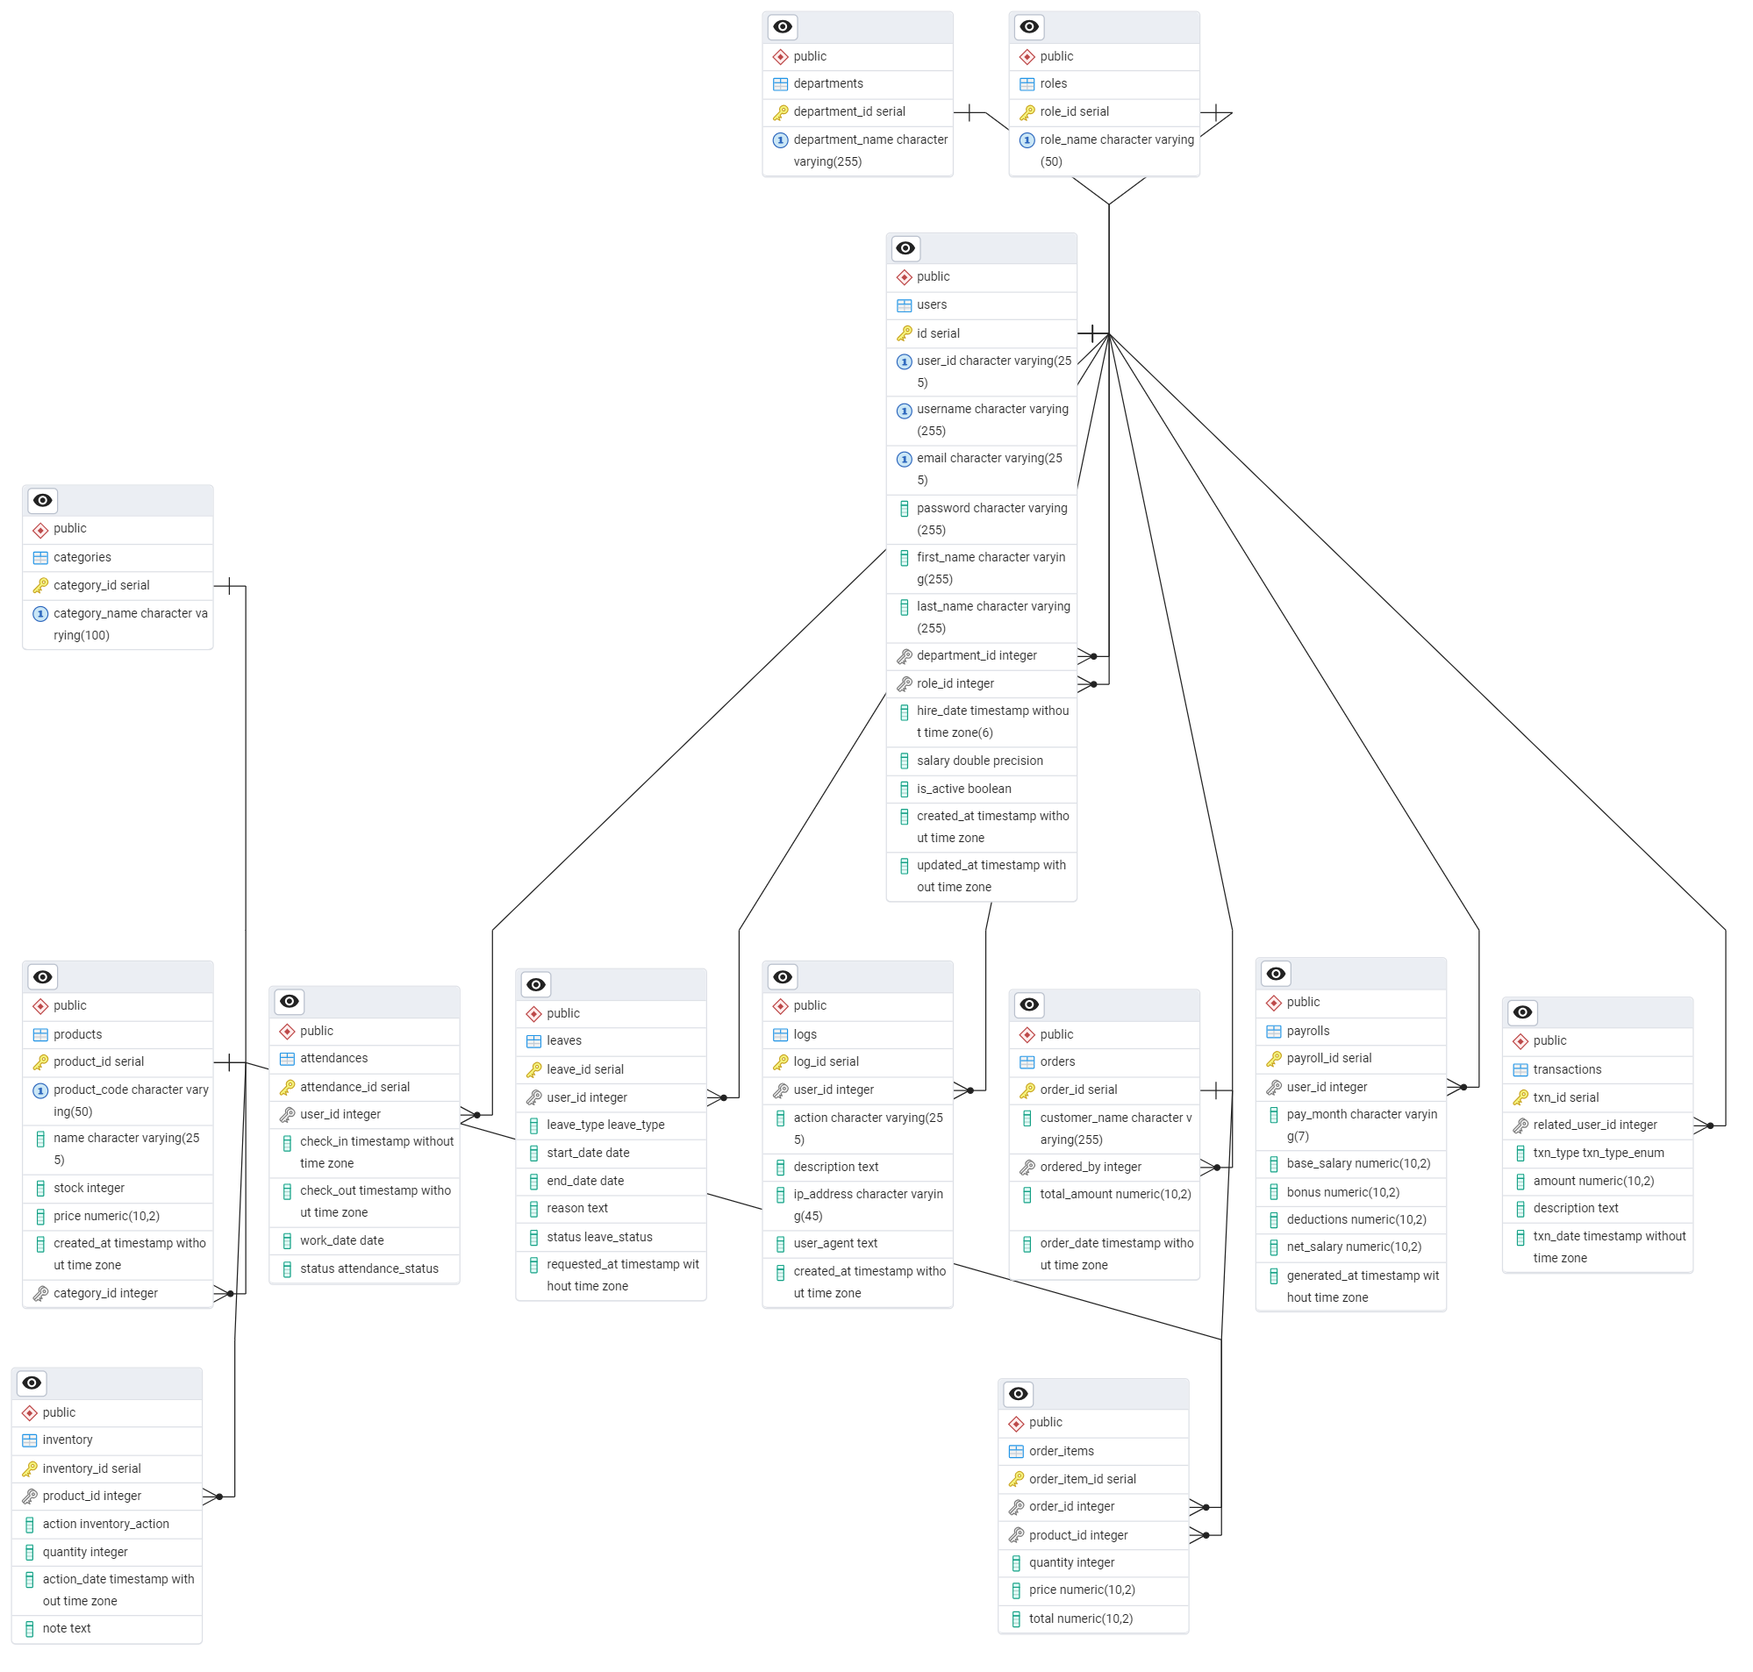
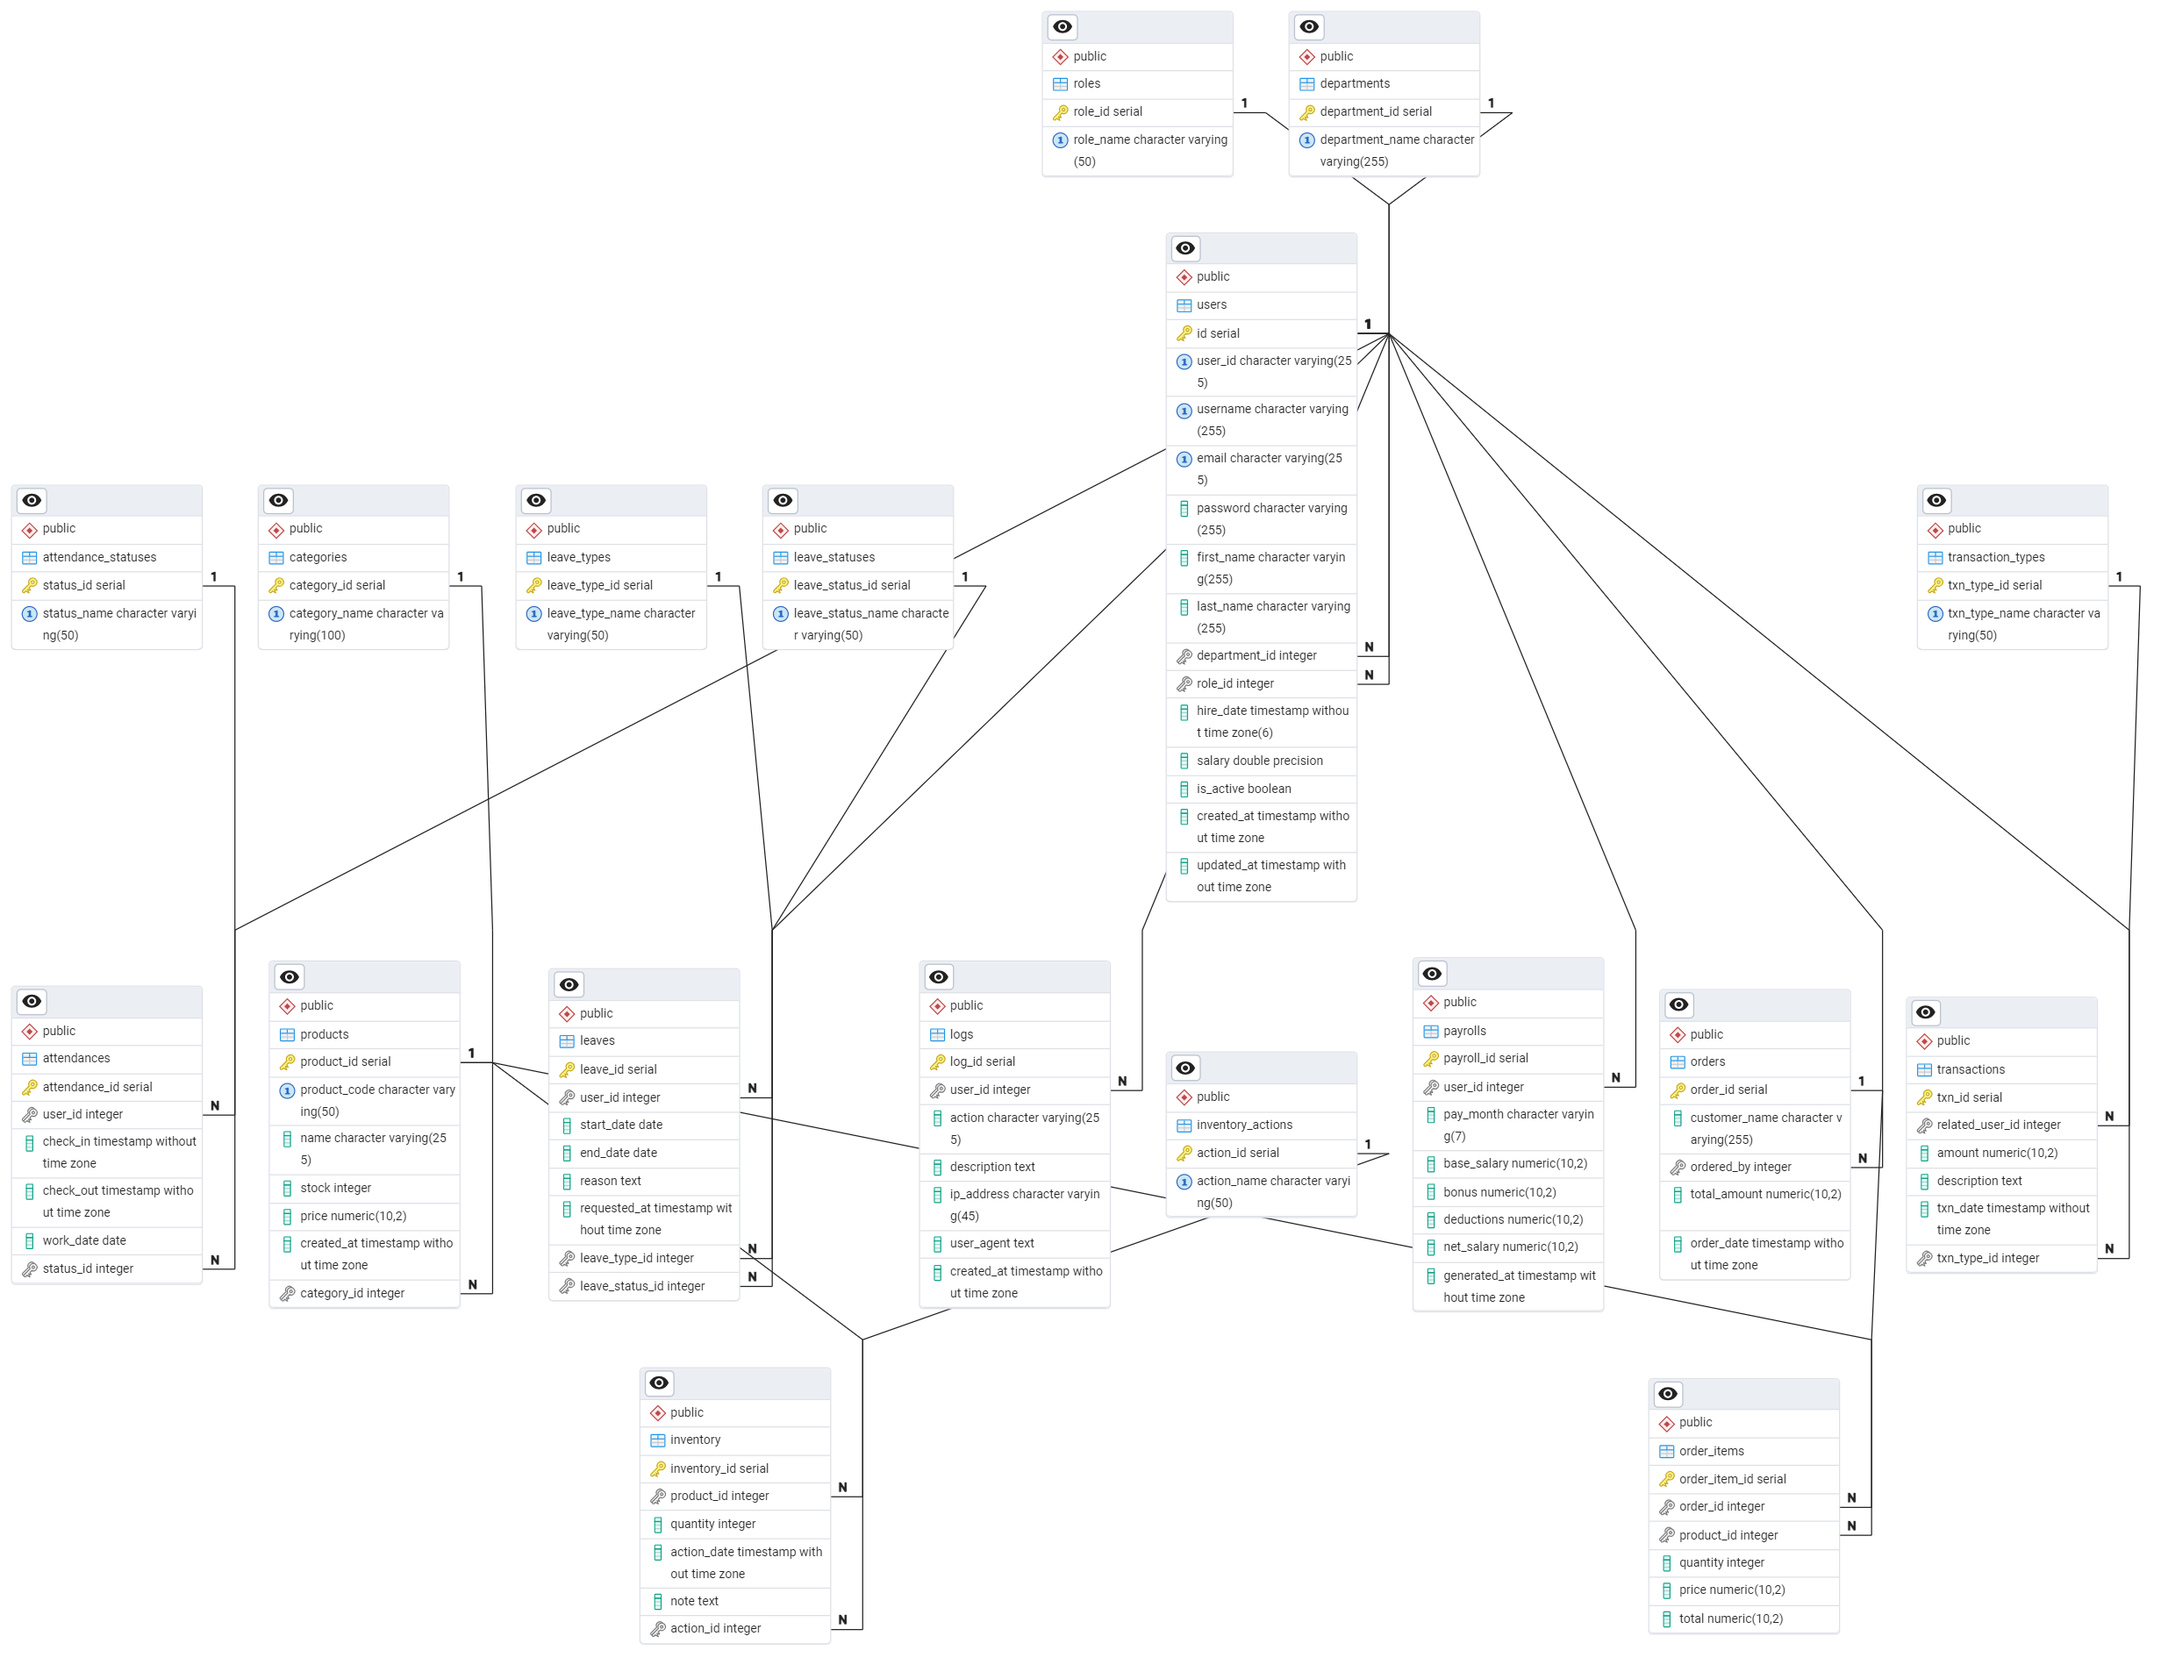
[ADD] Model Attendance [EDIT] Change Folder Name

diff --git a/src/main/java/com/example/erp/Category/model/Category.java b/src/main/java/com/example/erp/Category/model/Category.java
@@ -1,0 +1,22 @@
+package com.example.erp.Category.model;
+
+import jakarta.persistence.Entity;
+import jakarta.persistence.Table;
+
+@Entity
+@Table(name = "categories")
+public class Category {
+
+    private Integer category_id;
+
+    private String category_name;
+
+    public Category(){}
+
+    public Integer getCategoryId(){return category_id;}
+    public void setCategoryID(Integer category_id){this.category_id =category_id;}
+
+    public String getCategoryName(){return category_name;}
+    public void setCategoryName(String category_name){this.category_name =category_name;}
+    
+}

diff --git a/src/main/java/com/example/erp/config/security/SecurityConfig.java b/src/main/java/com/example/erp/config/security/SecurityConfig.java
@@ -1,4 +1,4 @@
-package com.example.erp.config.security;
+package com.example.erp.Config.security;
 
 import org.springframework.context.annotation.Bean;
 import org.springframework.context.annotation.Configuration;
@@ -8,7 +8,7 @@ import static org.springframework.security.config.Customizer.withDefaults;
 
 import org.springframework.security.web.authentication.UsernamePasswordAuthenticationFilter;
 
-import com.example.erp.config.jwt.JwtFilter;
+import com.example.erp.Config.jwt.JwtFilter;
 
 @Configuration
 public class SecurityConfig {

diff --git a/src/main/java/com/example/erp/Products/controller/ProductController.java b/src/main/java/com/example/erp/Products/controller/ProductController.java
@@ -9,10 +9,10 @@ import org.springframework.web.bind.annotation.RequestMapping;
 import org.springframework.web.bind.annotation.RequestParam;
 import org.springframework.web.bind.annotation.RestController;
 
+import com.example.erp.Helper.ApiResponse;
 import com.example.erp.Products.dto.CreateProduct;
 import com.example.erp.Products.model.Product;
 import com.example.erp.Products.services.ProductService;
-import com.example.erp.helper.ApiResponse;
 
 import io.swagger.v3.oas.annotations.parameters.RequestBody;
 

diff --git a/src/main/java/com/example/erp/config/jwt/JwtFilter.java b/src/main/java/com/example/erp/config/jwt/JwtFilter.java
@@ -1,4 +1,4 @@
-package com.example.erp.config.jwt;
+package com.example.erp.Config.jwt;
 
 import io.jsonwebtoken.Claims;
 import jakarta.servlet.FilterChain;
@@ -14,7 +14,7 @@ import org.springframework.security.core.context.SecurityContextHolder;
 import org.springframework.stereotype.Component;
 import org.springframework.web.filter.OncePerRequestFilter;
 
-import com.example.erp.config.auth.AuthConfig;
+import com.example.erp.Config.auth.AuthConfig;
 
 import java.io.IOException;
 import java.util.List;

diff --git a/src/main/java/com/example/erp/Users/controller/UserController.java b/src/main/java/com/example/erp/Users/controller/UserController.java
@@ -14,10 +14,10 @@ import org.springframework.web.bind.annotation.RequestMapping;
 import org.springframework.web.bind.annotation.RequestParam;
 import org.springframework.web.bind.annotation.RestController;
 
+import com.example.erp.Helper.ApiResponse;
 import com.example.erp.Users.dto.CreateUser;
 import com.example.erp.Users.model.User;
 import com.example.erp.Users.services.UserService;
-import com.example.erp.helper.ApiResponse;
 
 import io.swagger.v3.oas.annotations.parameters.RequestBody;
 

diff --git a/src/main/java/com/example/erp/Auth/controller/AuthController.java b/src/main/java/com/example/erp/Auth/controller/AuthController.java
@@ -9,9 +9,9 @@ import org.springframework.web.bind.annotation.RestController;
 import com.example.erp.Auth.model.AuthRequest;
 import com.example.erp.Auth.model.AuthResponse;
 import com.example.erp.Auth.service.AuthService;
+import com.example.erp.Helper.ApiResponse;
 import com.example.erp.Users.dto.CreateUser;
 import com.example.erp.Users.model.User;
-import com.example.erp.helper.ApiResponse;
 
 import io.swagger.v3.oas.annotations.parameters.RequestBody;
 

diff --git a/src/main/java/com/example/erp/log/service/LogService.java b/src/main/java/com/example/erp/log/service/LogService.java
@@ -1,9 +1,9 @@
-package com.example.erp.log.service;
+package com.example.erp.Log.service;
 
 import java.time.LocalDateTime;
 
-import com.example.erp.log.model.Log;
-import com.example.erp.log.repository.LogRepository;
+import com.example.erp.Log.model.Log;
+import com.example.erp.Log.repository.LogRepository;
 
 public class LogService {
 
@@ -31,4 +31,5 @@ public class LogService {
 
         return logRepository.save(log);
     }
+    
 }

diff --git a/src/main/java/com/example/erp/Auth/service/AuthService.java b/src/main/java/com/example/erp/Auth/service/AuthService.java
@@ -9,9 +9,9 @@ import org.springframework.stereotype.Service;
 import com.example.erp.Auth.model.AuthRequest;
 import com.example.erp.Auth.model.AuthResponse;
 import com.example.erp.Auth.repository.AuthRepository;
+import com.example.erp.Config.auth.AuthConfig;
 import com.example.erp.Users.dto.CreateUser;
 import com.example.erp.Users.model.User;
-import com.example.erp.config.auth.AuthConfig;
 
 @Service
 public class AuthService {

diff --git a/src/main/java/com/example/erp/Departments/controller/DepartmentsController.java b/src/main/java/com/example/erp/Departments/controller/DepartmentsController.java
@@ -15,7 +15,7 @@ import org.springframework.web.bind.annotation.RestController;
 import com.example.erp.Departments.dto.CreateDepartments;
 import com.example.erp.Departments.model.Departments;
 import com.example.erp.Departments.service.DepartmentsService;
-import com.example.erp.helper.ApiResponse;
+import com.example.erp.Helper.ApiResponse;
 
 import jakarta.validation.Valid;
 

diff --git a/src/main/java/com/example/erp/Attendance/model/Attendance.java b/src/main/java/com/example/erp/Attendance/model/Attendance.java
@@ -1,0 +1,15 @@
+package com.example.erp.Attendance.model;
+
+import java.time.LocalDate;
+import java.time.LocalDateTime;
+
+public class Attendance {
+
+    private Integer attendance_id;
+    private Integer user_id;
+    private LocalDateTime check_in;
+    private LocalDateTime check_out;
+    private LocalDate work_date; 
+    private Integer status_id;
+    
+}

diff --git a/src/main/java/com/example/erp/log/repository/LogRepository.java b/src/main/java/com/example/erp/log/repository/LogRepository.java
@@ -1,8 +1,8 @@
-package com.example.erp.log.repository;
+package com.example.erp.Log.repository;
 
 import org.springframework.data.jpa.repository.JpaRepository;
 
-import com.example.erp.log.model.Log;
+import com.example.erp.Log.model.Log;
 
 public interface LogRepository extends JpaRepository<Log , Integer> {
     

diff --git a/src/main/java/com/example/erp/helper/WebConfig.java b/src/main/java/com/example/erp/helper/WebConfig.java
@@ -1,4 +1,4 @@
-package com.example.erp.helper;  // เปลี่ยน package ตามโปรเจกต์คุณ
+package com.example.erp.Helper;  
 
 import org.springframework.context.annotation.Configuration;
 import org.springframework.web.servlet.config.annotation.CorsRegistry;
